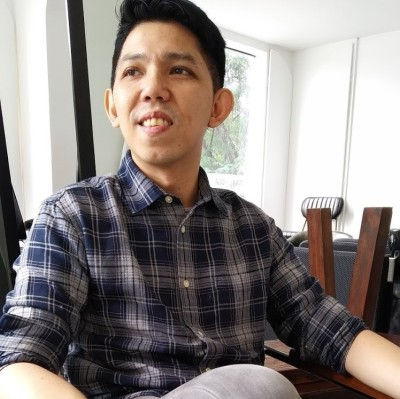
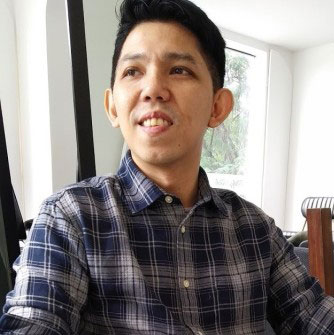
Update profile image

diff --git a/index.html b/index.html
@@ -27,7 +27,7 @@
 		<!-- Header -->
 		<header id="header">
 			<div class="inner">
-				<a href="mailto:franmesina@gmail.com" class="image avatar"><img src="images/francis-mesina.jpg" alt="Web Developer Francis Mesina with a friendly smile" /></a>
+				<a href="mailto:franmesina@gmail.com" class="image avatar"><img src="images/francis-mesina-profile.jpg" alt="Web Developer Francis Mesina with a friendly smile" /></a>
 				<h1 style="font-weight: 500!important;text-transform: uppercase!important; font-size:2rem!important;"><span style="color:#fff!important;">Francis</span><span style="color: #2c9adc!important;">Mesina</span></h1>
 				<div><strong>I’m a dedicated designer and developer with a deep passion for crafting exceptional web experiences. I specialize in creating simple, clean, and modern websites that deliver real value to users. I’ve had the privilege of helping numerous clients achieve outstanding results. My commitment lies in delivering projects on time and within budget while ensuring they exceed client expectations—your vision brought to life is my ultimate goal.</strong>.</div>
 			</div>
